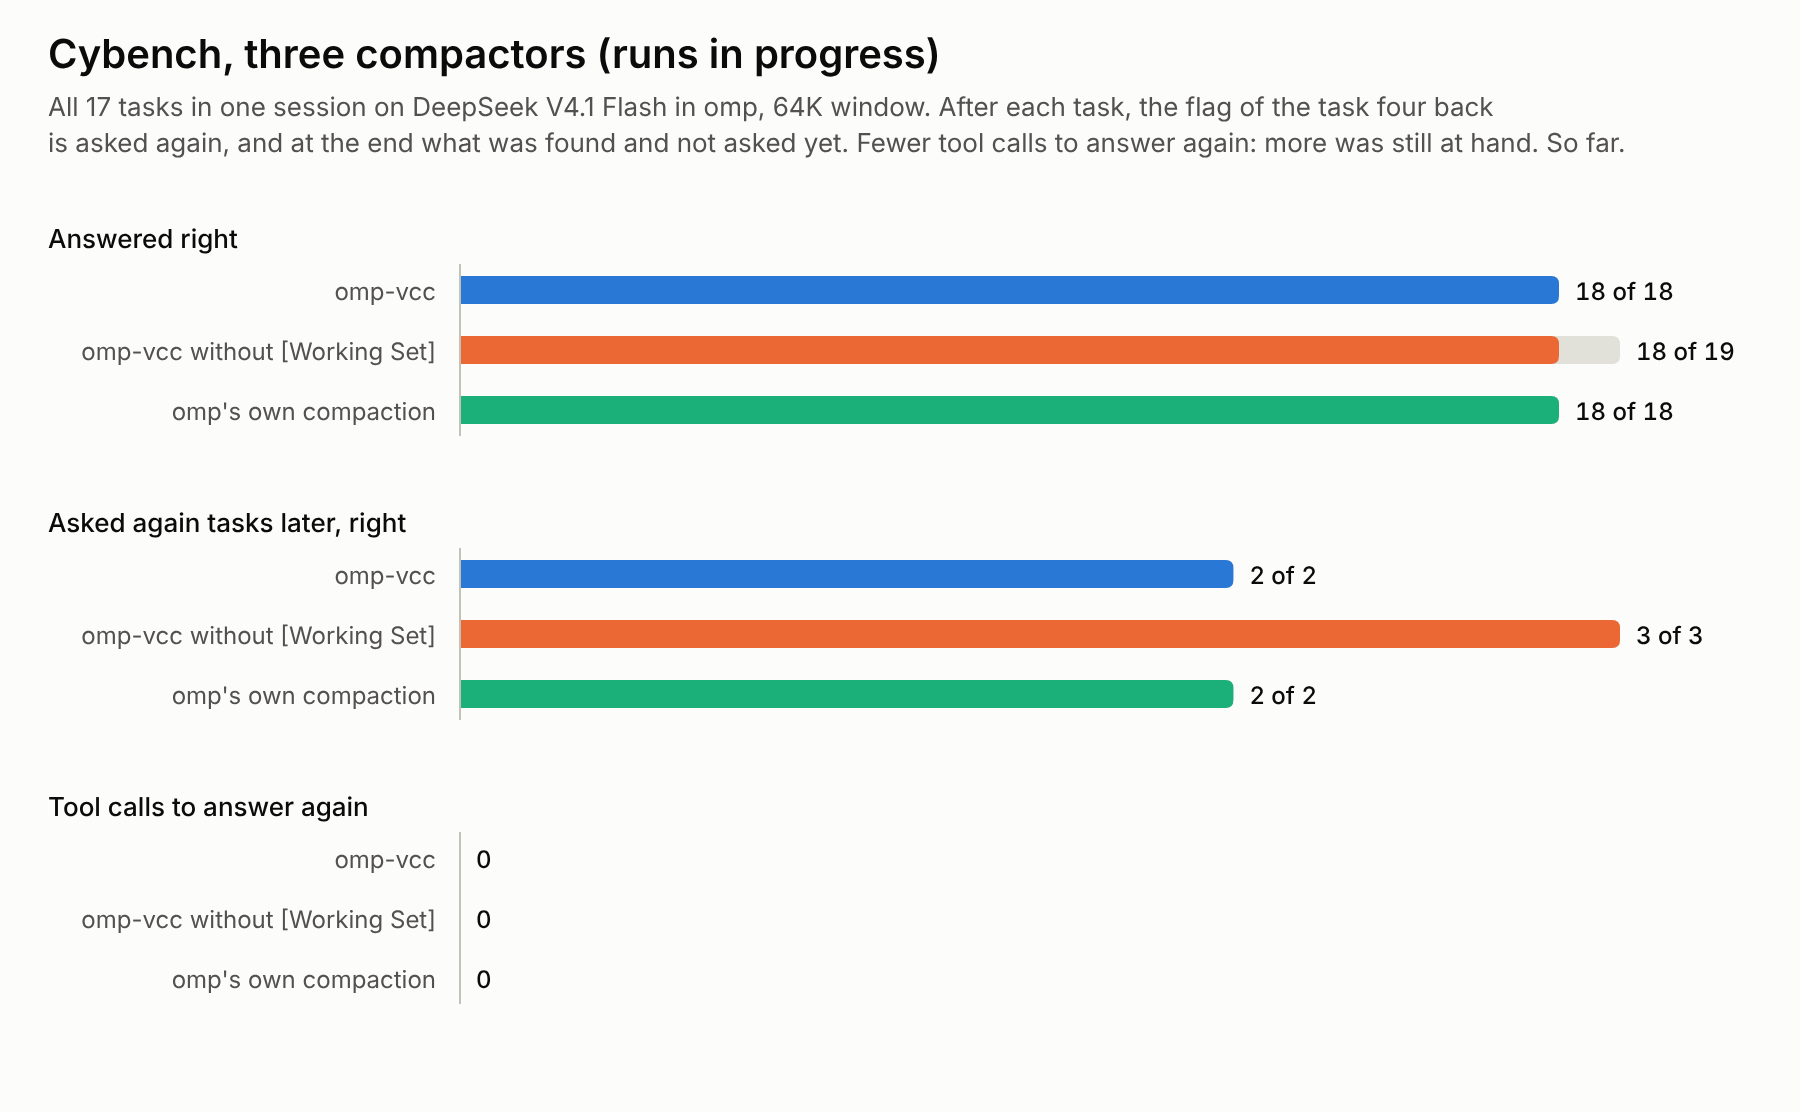
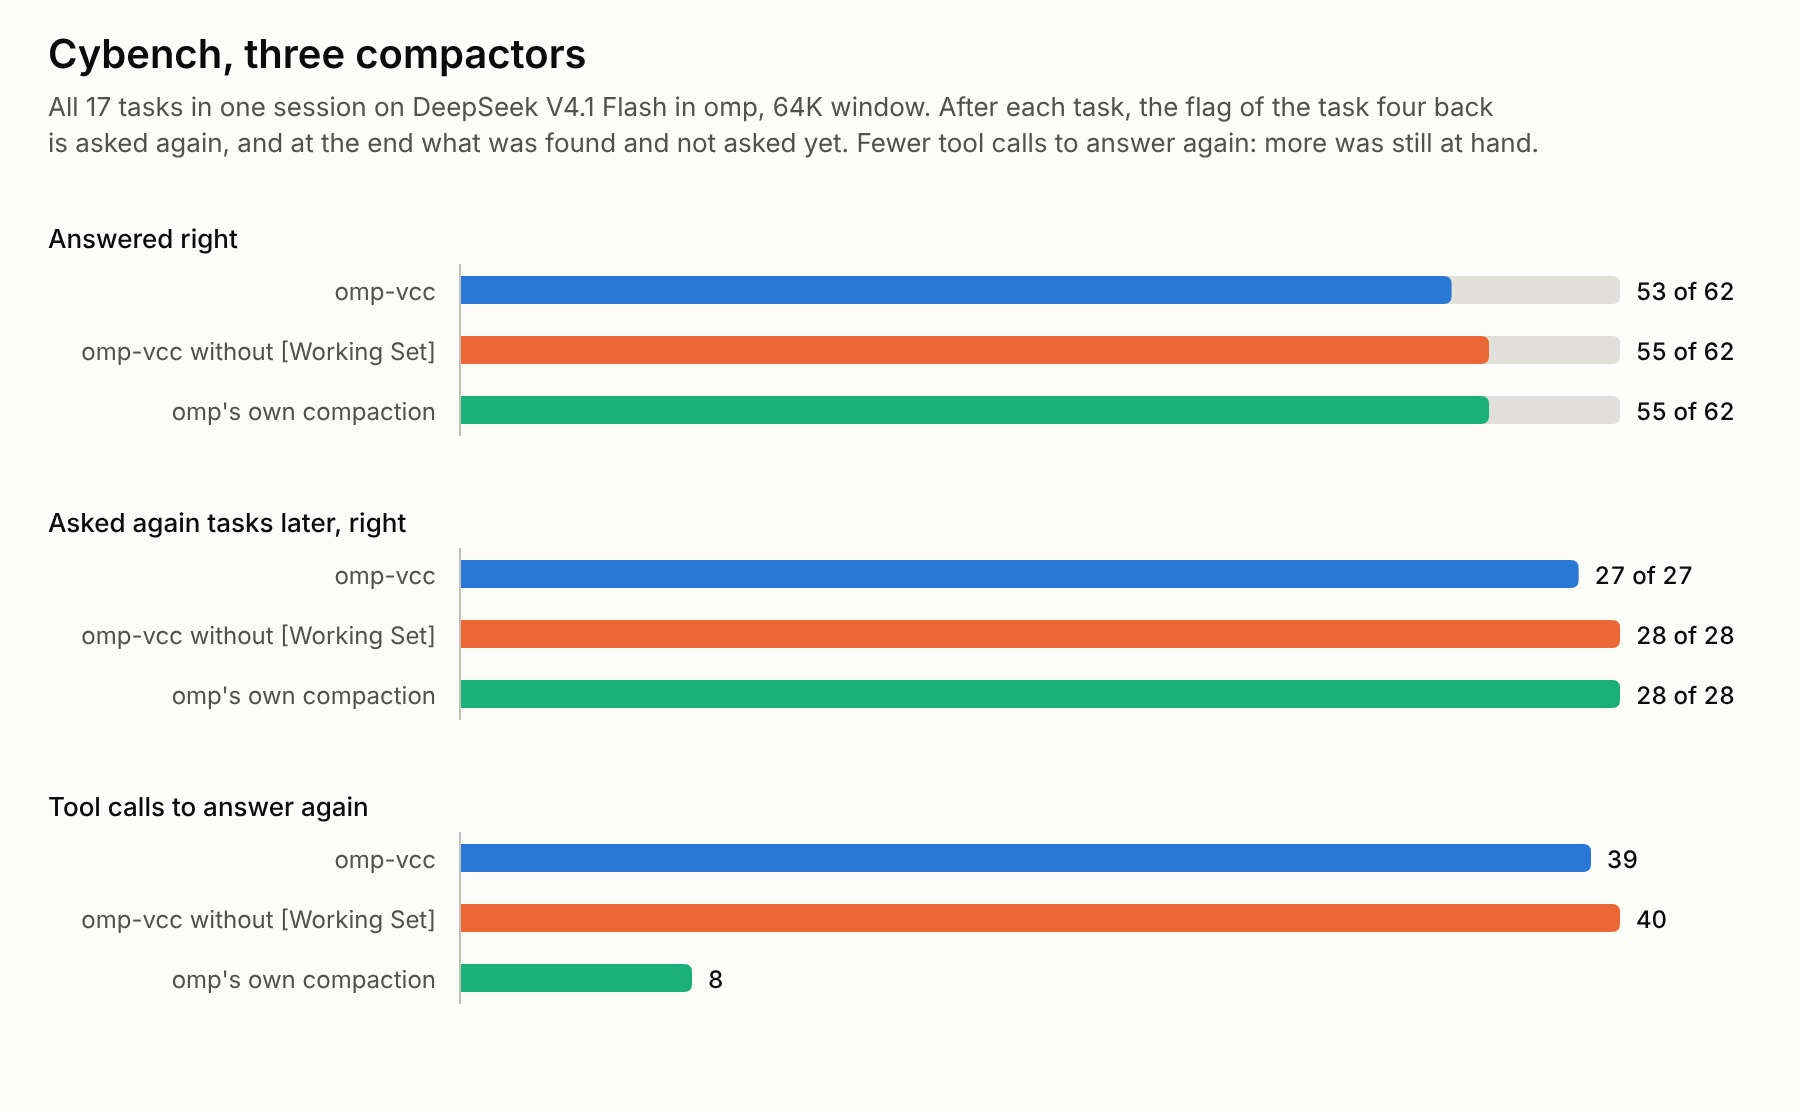
docs: final Cybench results for the three compactors
All 17 tasks finished for omp-vcc, omp-vcc without [Working Set] and
omp's own compaction. The README leads with them: answers right 53, 55
and 55 of 62, every question asked again right with all three, and the
tool calls it took to answer again (39, 40 and 8). The benchmark script
now exits once it prints, since omp leaves handles open after the
session closes.

Claude-Session: https://claude.ai/code/session_01QjDLbw1hGcADZJByJsm9qe

diff --git a/scripts/benchmark-cybench.ts b/scripts/benchmark-cybench.ts
@@ -63,3 +63,5 @@ const right = r.answers.filter((a) => a.correct).length;
 const again = r.recall.filter((a) => a.correct).length;
 const fromContext = r.recall.filter((a) => a.correct && a.toolCalls === 0).length;
 console.log(`totals: answered ${right}/${r.answers.length}; asked again ${again}/${r.recall.length}, ${fromContext} of them with no tool call; ${r.recall.reduce((n, a) => n + a.toolCalls, 0)} tool calls to answer again`);
+// omp leaves handles open after the session closes; the run is over, so don't sit on them for hours.
+process.exit(0);

diff --git a/README.md b/README.md
@@ -221,17 +221,17 @@ Benchmarks comparing the ranked brief with the pi-vcc 0.3.18 baseline (recall, f
 
 DeepSeek V4.1 Flash working in omp, with omp told a smaller window than the model's so it compacts during the session.
 
-![Cybench, first attempt: questions answered right per task, omp-vcc against omp's own compaction](./benchmarks/images/cybench-first-attempt.png)
+![Cybench, three compactors: answers right, asked again and right, and tool calls to answer again](./benchmarks/images/cybench-runs.png)
 
-[Cybench](https://arxiv.org/abs/2408.08926)'s capture-the-flag tasks (binaries to reverse, a pcap, emails, crypto), answering each task's own questions, all in one session on a 64K window: 42 of 45 right with omp-vcc, 41 of 45 with omp's own compaction. One run each, stopped after 13 of the 17 tasks (`scripts/benchmark-cybench.ts`).
+All 17 of [Cybench](https://arxiv.org/abs/2408.08926)'s file-only capture-the-flag tasks (binaries to reverse, a pcap, emails, crypto) in one session on a 64K window, answering each task's own questions with at most 15 model requests per question (Cybench's own cap), and earlier answers asked again tasks later (`scripts/benchmark-cybench.ts`). Answered right: 53 of 62 with omp-vcc, 55 without `[Working Set]`, 55 with omp's own compaction. Asked again, all three got every one right, but not with the same work: omp's own compaction, which writes its summary with the model, answered 22 of 28 from what its context held, 8 tool calls in all; omp-vcc answered 10 of 27 that way and looked the rest up again, 39 calls. One run each.
 
 ![Working set on and off: runs finished, files read again and requests over 8 runs on a 40K window](./benchmarks/images/working-set-40k.png)
 
 A five-step coding task, 4 runs with `[Working Set]` and 4 without, on a 40K window: every run with it finished every step and test, one without did. Files read again and requests were about level; with 4 runs a side, runs differ a lot.
 
-![Cybench, three compactors: answers right, asked again and right, and tool calls to answer again](./benchmarks/images/cybench-runs.png)
+![Cybench, first attempt: questions answered right per task, omp-vcc against omp's own compaction](./benchmarks/images/cybench-first-attempt.png)
 
-All 17 Cybench tasks with omp-vcc, omp-vcc without `[Working Set]` and omp's own compaction, with earlier answers asked again tasks later; runs in progress.
+An earlier run of the same tasks, stopped at a two-hour limit after 13 of the 17 and before any question was asked again: 42 of 45 right with omp-vcc, 41 of 45 with omp's own compaction.
 
 ## Research
 
